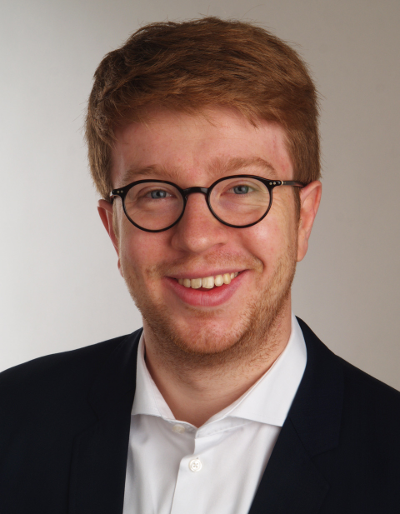
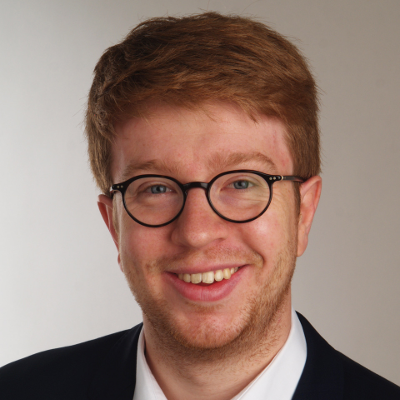
cropped images to square and removed schedule!

diff --git a/index.html b/index.html
@@ -288,161 +288,7 @@
 
     <!-- TODO: Add schedule tab -->
     <!-- Schedule -->
-    <div id="schedule" class="content-section-c">
-        <div class="container">
-            <div class="row">
-                <div class="col-md-6 col-md-offset-3 text-center wrap_title white">
-                    <h2>Schedule</h2>
-                    <p class="lead">All talks will include 5-10 minutes for Q&A at the end.<br>Times are given in the <a
-                            href="https://24timezones.com/time-zone/gmt" target="_blank" style="color:white;"><b>GMT
-                                timezone</b></a>.</p>
-                </div>
-            </div>
-
-            <div class="row" style="margin-top: 50px; margin-right: 50px; margin-left: 50px;">
-                <div class="col-md-8 col-md-offset-2 white">
-                    <table class="schedule">
-                        <tbody>
-                            <tr>
-                                <th>10:00</th>
-                                <td colspan="4" rowspan="1" class="stage-mercury text-center">
-                                    Welcome address <br>
-                                    <a href="https://us02web.zoom.us/j/86543313349">
-                                        [Zoom link - Session 1]
-                                    </a>
-                                </td>
-                            </tr>
-                            <tr>
-                                <th>10:10</th>
-                                <td colspan="4" rowspan="2" class="stage-earth">
-                                    Talk | Keynote <br>
-                                    <p style="font-weight:normal"> TBA </p>
-                                        <a href="https://us02web.zoom.us/j/86543313349">
-                                            [Zoom link - Session 1]
-                                        </a>
-                                </td>
-                            </tr>
-                            <tr>
-                                <th>10:50</th>
-                            </tr>
-                            <tr>
-                                <th>10:50</th>
-                                <td colspan="4" rowspan="2" class="stage-mercury">
-                                    Talk | Keynote<br>
-                                    <p style="font-weight:normal">TBA</p>
-                                    <a href="https://us02web.zoom.us/j/86543313349">
-                                        [Zoom link - Session 1]
-                                    </a>
-                                </td>
-                            </tr>
-                            <tr>
-                                <th>11:30</th>
-                            </tr>
-                            <tr>
-                                <th>11:30</th>
-                                <td colspan="4" rowspan="1" class="stage-earth text-center">
-                                    Break | 20 min
-                                </td>
-                            </tr>
-                            <tr>
-                                <th>11:50</th>
-                                <td colspan="4" rowspan="2" class="stage-mercury">
-                                    Talk | Keynote<br>
-                                    <p style="font-weight:normal">TBA</p>
-                                    <a href="https://us02web.zoom.us/j/83417579367">
-                                        [Zoom link - Session 2]
-                                    </a>
-                                </td>
-                            </tr>
-                            <tr>
-                                <th>12:30</th>
-                            </tr>
-                            <tr>
-                                <th>12:30</th>
-                                <td colspan="4" rowspan="2" class="stage-earth">
-                                    Talk | Keynote<br>
-                                    <p style="font-weight:normal">Title TBA</p>
-                                    <a href="https://us02web.zoom.us/j/83417579367">
-                                        [Zoom link - Session 2]
-                                    </a>
-                                </td>
-                            </tr>
-                            <tr>
-                                <th>13:10</th>
-                            </tr>
-                            <tr>
-                                <th>13:10</th>
-                                <td colspan="4" rowspan="1" class="stage-mercury text-center">
-                                    Break | 50 min
-                                </td>
-                            </tr>
-                            <tr>
-                                <th>14:00</th>
-                                <td colspan="4" rowspan="2" class="stage-earth">
-                                    Talk | Keynote<br>
-                                    <p style="font-weight:normal">Title TBA</p>
-                                    <a href="https://us02web.zoom.us/j/82491564625">
-                                        [Zoom link - Session 3]
-                                    </a>
-                                </td>
-                            </tr>
-                            <tr>
-                                <th>14:40</th>
-                            </tr>
-                            <tr>
-                                <th>14:40</th>
-                                <td colspan="4" rowspan="2" class="stage-mercury">
-                                    Talk | Keynote<br>
-                                    <p style="font-weight:normal">TBA
-                                    </p>
-                                    <a href="https://us02web.zoom.us/j/82491564625">
-                                        [Zoom link - Session 3]
-                                    </a>
-                                </td>
-                            </tr>
-                            <tr>
-                                <th>15:20</th>
-                            </tr>
-                            <tr>
-                                <th>15:20</th>
-                                <td colspan="4" rowspan="1" class="stage-earth text-center">
-                                    Break | 10 min
-                                </td>
-                            </tr>
-                            <tr>
-                                <th>15:30</th>
-                                <td colspan="4" rowspan="2" class="stage-mercury">
-                                    Panel | Code tools for causal inference and discovery<br>
-                                    <p style="font-weight:normal">TBA</p>
-                                    <a href="https://us02web.zoom.us/j/81965259440">
-                                        [Zoom link - Session 4]
-                                    </a>
-                                </td>
-                            </tr>
-                            <tr>
-                                <th>16:30</th>
-                            </tr>
-                            <tr>
-                                <th>16:30</th>
-                                <td colspan="4" rowspan="2" class="stage-earth">
-                                    Panel | Scientific frontiers in causal methods and environmental science<br>
-                                    <p style="font-weight:normal">TBA
-                                    </p>
-                                    <a href="https://us02web.zoom.us/j/89748339742">
-                                        [Zoom link - Session 5]
-                                    </a>
-                                </td>
-                            </tr>
-                            <tr>
-                                <th>17:30</th>
-                            </tr>
-                        </tbody>
-                    </table>
-                </div>
-            </div>
-
-        </div>
-    </div>
+    
     </div>
 
     <!-- Organisers -->
